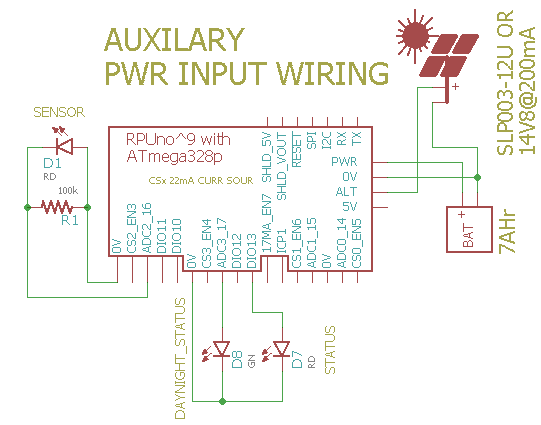
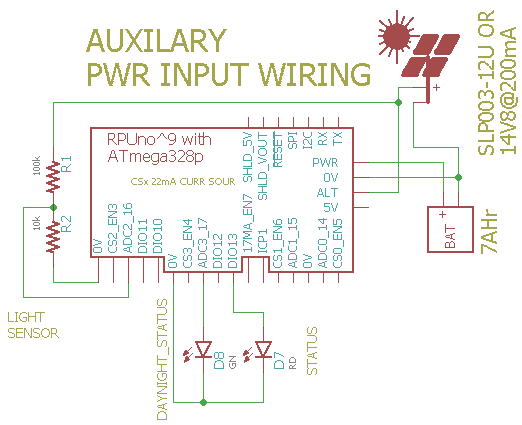
Solenoid: voltage divider on SLP003 solar pannel for light sensor

diff --git a/Solenoid/main.c b/Solenoid/main.c
@@ -275,8 +275,13 @@ void setup(void)
     }
 
     // default debounce is 15 min (e.g. 900,000 millis)
-    evening_debouce = 18000UL; // 18 sec
-    morning_debouce = 18000UL;
+    evening_debouce = 1200000UL; // 20 min
+    morning_debouce = 1200000UL;
+    // analog reading of 5*5.0/1024.0 is about 0.024V
+    // analog reading of 10*5.0/1024.0 is about 0.049V
+    // analog reading of 20*5.0/1024.0 is about 0.098V
+    evening_threshold = 10; // SLP003 with 10k and 100k divider
+    morning_threshold = 20;
 
     alt_count = 0;
 }

diff --git a/AmpHr/README.md b/AmpHr/README.md
@@ -9,19 +9,18 @@ Use ADC reading to Accumulate at timed intervals from a sense resistor. This is 
 
 # Firmware Upload
 
-With a serial port connection (set the BOOT_PORT in Makefile) and optiboot installed on the RPUlux run 'make bootload' and it should compile and then flash the MCU.
+With a serial port connection (set the BOOTLOAD_PORT in Makefile) and optiboot installed on the RPUno run 'make bootload' and it should compile and then flash the MCU.
 
 ``` 
 sudo apt-get install git gcc-avr binutils-avr gdb-avr avr-libc avrdude
-git clone https://github.com/epccs/RPUlux/
-cd /RPUux/AmpHr
+git clone https://github.com/epccs/RPUno/
+cd /RPUno/AmpHr
 make bootload
 ...
 avrdude done.  Thank you.
 ``` 
 
-Now connect with picocom (or ilk). Note I am often at another computer doing this through SSH. The Samba folder is for editing the files from Windows.
-
+Now connect with picocom (or ilk). 
 
 ``` 
 #exit is C-a, C-x

diff --git a/Digital/README.md b/Digital/README.md
@@ -6,17 +6,18 @@ Digital is an interactive command line program that demonstrates control of the 
 
 ## Firmware Upload
 
-With a serial port connection (set the BOOT_PORT in Makefile) and optiboot installed on the RPUno run 'make bootload' and it should compile and then flash the MCU.
+With a serial port connection (set the BOOTLOAD_PORT in Makefile) and optiboot installed on the RPUno run 'make bootload' and it should compile and then flash the MCU.
 
 ``` 
+sudo apt-get install git gcc-avr binutils-avr gdb-avr avr-libc avrdude
 git clone https://github.com/epccs/RPUno/
 cd /RPUno/Digital
-rsutherland@conversion:~/Samba/RPUno/Digital$ make bootload
+make bootload
 ...
 avrdude done.  Thank you.
 ``` 
 
-Now connect with picocom (or ilk). Note I am often at another computer doing this through SSH. The Samba folder is for editing the files from Windows.
+Now connect with picocom (or ilk).
 
 ``` 
 #exit is C-a, C-x

diff --git a/Alternat/README.md b/Alternat/README.md
@@ -18,9 +18,10 @@ The hardware for this lacks training wheels, it is going to take some time to re
 
 # Firmware Upload
 
-With a serial port connection (set the BOOT_PORT in Makefile) and optiboot installed on the RPUlux run 'make bootload' and it should compile and then flash the MCU.
+With a serial port connection (set the BOOTLOAD_PORT in Makefile) and optiboot installed on the RPUlux run 'make bootload' and it should compile and then flash the MCU.
 
 ``` 
+sudo apt-get install git gcc-avr binutils-avr gdb-avr avr-libc avrdude
 git clone https://github.com/epccs/RPUno/
 cd /RPUno/Alternat
 make bootload

diff --git a/CurrSour/README.md b/CurrSour/README.md
@@ -7,9 +7,10 @@ There are four 22mA current sources CS0..CS3 controlled with ATmega328p pins PD5
 
 # Firmware Upload
 
-With a serial port connection (set the BOOT_PORT in Makefile) and optiboot installed on the RPUno run 'make bootload' and it should compile and then flash the MCU.
+With a serial port connection (set the BOOTLOAD_PORT in Makefile) and optiboot installed on the RPUno run 'make bootload' and it should compile and then flash the MCU.
 
 ``` 
+sudo apt-get install git gcc-avr binutils-avr gdb-avr avr-libc avrdude
 git clone https://github.com/epccs/RPUno/
 cd /RPUno/CurrSour
 make bootload

diff --git a/Solenoid/README.md b/Solenoid/README.md
@@ -70,7 +70,7 @@ ICP1 is available through the [Capture][../Capture] commands. The differance in 
 
 # Firmware Upload
 
-With a serial port connection (set the BOOT_PORT in Makefile) and optiboot installed on the RPUno run 'make bootload' and it should compile and then flash the MCU.
+With a serial port connection (set the BOOTLOAD_PORT in Makefile) and optiboot installed on the RPUno run 'make bootload' and it should compile and then flash the MCU.
 
 ``` 
 sudo apt-get install git gcc-avr binutils-avr gdb-avr avr-libc avrdude
